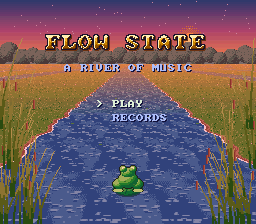
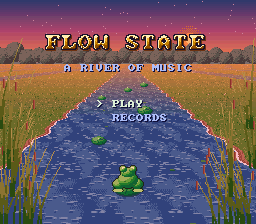
Flow State step 8: polish and release (a lively title for the Library picture, the README row, sources of the scores, the rhythm-game playbook section, an onset tool, the final audit)
Claude-Session: https://claude.ai/code/session_01Nc4JskrxPXMSXcsQP1Fakb

Changed region(s): [[0.0, 0.1875, 1.0, 1.0], [0.0312, 0.8125, 0.0938, 0.9375], [0.0312, 0.9375, 0.0938, 1.0]]

diff --git a/carts/src/flow-state/code.js b/carts/src/flow-state/code.js
@@ -410,6 +410,12 @@ function drawFrogAndPads() {
     sprite(r, hopTo - S / 2, FROG_Y + 6 - S * 0.62, { pal: [5, 6, 4][lastG] });
   }
   sprite(ART.sprites.pad32, home - 16, FROG_Y + 2 - 20);
+  if (state === 'title') {                                                                     // on the title a few pads drift down the river towards the frog
+    for (let i = 0; i < 5; i++) {
+      const z = lerp(720, 100, ((i * 72 + clock) % 360) / 360), k = FOCAL / z, S = k >= 0.75 ? 32 : k >= 0.38 ? 16 : 8;
+      sprite(ART.sprites['pad' + S], 128 + [-2, 1, -1, 2, 0][i] * LANE * k - S / 2, HORIZON - 1 + HEIGHT * k - S * 0.62);
+    }
+  }
   if (state !== 'play' && state !== 'calib') return;
   for (const n of notes) {
     const z = ZH + V * (n.f - st());

diff --git a/docs/carts/flow-state.md b/docs/carts/flow-state.md
@@ -1,7 +1,7 @@
 # Flow State: Cart Specification
 
-**Version:** 0.2 (spec agreed in outline)
-**Status:** Spec written; scaffolded, the game is still the starter's placeholder
+**Version:** 1.0 (built: all eight steps of section 15)
+**Status:** Released in the Library (`carts/flow-state.nova.png`); under review in [PR #60](https://github.com/orlando008/fanstasy-console/pull/60). Open: the Badinerie's licence and a person's check of feel and of the notes (section 16)
 **Cart source:** `carts/src/flow-state/` → `carts/flow-state.nova`
 
 ---
@@ -204,11 +204,14 @@ A perfect player gets an S on every chart and is in flow state 75 to 97 % of the
 
 **Step 7, not done:** the bot models a person with one number; real players have a bias (a steady early or late tap, which the calibration is for) and bad stretches, so the real ladder will need a person to confirm it (the first thing to try if a grade feels too easy is the C threshold, then the targets of the flow, the `JUDGE` targets and `MISS_K`, and `gradeOf`, in `code.js`).
 
+**Step 8, built:** the title has pads drifting down the river towards the frog, so the Library's picture (the title at 3.5 seconds, `carts/labels/flow-state.png`) shows the game; `meta.json` has the Library's description; the README has the game's row; `node tools/release.js flow-state` made `carts/flow-state.nova.png` (57 % of the PNG's 147 KB); `carts/src/flow-state/scores/SOURCES.md` says where each score came from and what is open (the Badinerie); the playbook has a section on rhythm games (section 10) and `tools/devkit/music/onset.mjs` checks how soon a song's first note sounds. The audit: all eight test files pass (`node tools/test.js flow-state`, 247 checks), `verify.js` passes for the cart and for every other cart (the loudness tool's one change, ignoring a song's silent tail, was checked on all of them), the bot plays every piece at every difficulty through the title, the map and the calibration to the results, a soak of random presses runs clean, 2 ms a frame on average, 38 KB of the 64 KB of code, 926 of the 1,023 tiles, 49 of the 64 effects, 53 of the 64 patterns.
+
 Each step: build it, run `node tools/check.js flow-state` and `node tools/test.js flow-state`, write its **Built** and **Results** notes under its number here, commit and push.
 
 ## 16. Open questions
 
-- **The speakers' delay.** The calibration finds one number, but the audio worklet's delay can differ between a phone and a laptop; the calibration screen must be quick and obvious, and offered on the first play.
-- **The notes.** The pieces are written from the scores by hand: each needs a check by ear by a person (the sync is by arithmetic, the notes are not); the spec lists each piece's source (IMSLP, public domain editions) as it is written.
-- **Held notes.** The Air and the Moonlight Sonata have long notes; a pad you hold (press and release on the note's end) would suit them. Left out of the first version, one tap a pad.
-- **A second button for chords.** Not needed with one button: the chart follows the melody only.
+- **The Badinerie's licence.** Its notes come from John Hamm's 1995 sequence (`carts/src/flow-state/scores/SOURCES.md`): the repository it was found in states no licence. Before a public release replace it with an engraving of clear licence (the commands are in `SOURCES.md`); the other pieces come from Mutopia (public domain or Creative Commons: attribution may be due for a Creative Commons file, which the file does not say).
+- **A person's check.** Everything here is checked by arithmetic, by tests and by a bot; nobody has heard the music or felt the timing in this document's making except through the user's reviews. The notes were taken from scores, not played by ear; the calibration measures a tick, not music; the bot models one number of timing error. Things to try first if a player complains: the C threshold and the flow's targets (`gradeOf`, `JUDGE`, `MISS_K` in `code.js`), the plinks' loudness on a fast piece (section 11), the glow bar's strength in full daylight, the density of a chart (`pieces.py`).
+- **The speakers' delay.** The calibration finds one number, but the audio worklet's delay can differ between a phone and a laptop; it is offered on the first play and again on the map (SELECT).
+- **Held notes.** The Air and the Moonlight Sonata have long notes; a pad you hold (press and release on the note's end) would suit them. Left out: one tap a pad.
+- **Touch controls.** The game needs only the D-pad, A, B, START and SELECT, which the console's touch controls have; it has been run only with a keyboard and the bot.

diff --git a/docs/dev/playbook.md b/docs/dev/playbook.md
@@ -460,3 +460,35 @@ What the checks found in the games, so the same is not done again:
 - **Measuring what is not there**: `loud.mjs` read a song's tempo only from channel 1, so Summit Rush (tempo on channel
   5) was measured at the wrong speed and its title lead was over the limit unseen; `sfx.mjs` read the left side only,
   so effects panned right looked quieter than they were. Both now measure what the player hears.
+
+## 10. A rhythm game on this console (Flow State)
+
+What building `flow-state` taught (its spec is `docs/carts/flow-state.md`; every point has a test in `tests/carts/flow-state/`):
+
+- **The music is the clock.** A song's speed is the ticks (60 to a second) of a row, so a note on row `r` sounds `r x speed` frames after `music(song, pos)`.
+  Write the notes once (`pieces.py`) and make the song and the chart from them (`audio.py` writes `rom/charts.bin` as well as `audio.json`): they cannot
+  disagree, and a test reads both back and checks every pad against the song (`04-music.mjs`). No audio analysis is needed.
+- **A voice must start when its row says.** A slow attack makes a note sound late against its pad, and a player taps what they hear: the Air's strings were 94 ms
+  to full level and every tap landed three frames behind. `tools/devkit/music/onset.mjs` prints when each song's first note reaches a quarter of its level;
+  set a rhythm game's lead voices to attack 0 and keep it under about 15 ms.
+- **A chart follows one thing the player can hear.** Pads on both the bass and the melody ornaments of the Air could not be tapped to; pads on the bass alone, played as
+  a clear tick, could. Say on the menu what each chart follows. Make a slow melody playable with a second voice (`extra_src`, `extra_mod`), and a hard chart with
+  every note, but not faster than a person can tap (no two pads closer than 9 frames).
+- **Scores from public domain files.** `carts/src/flow-state/import_score.py` turns one voice of a MIDI file (Mutopia has engravings; the `marmooo/classical-midi-db`
+  repository collects them) into note text; `scores/SOURCES.md` records where each came from and its licence. The first versions written from memory were wrong in
+  the Air, the Moonlight and the Minuet's second half: take the notes from a score.
+- **The calibration is a number of frames.** Tap to a tick on a steady beat, take the **median** of how late the taps are (a stray tap does not spoil it), limit it
+  to -15 to 15, and subtract it from the song time (`st = tm - lag`) for the pads and the judgement alike. Offer it the first time, and save it.
+- **A meter that counts saturates.** A flow or health meter that goes up a fixed amount a hit and down a fixed amount a miss goes to the top for every player better
+  than a coin toss. Move it a part of the way to a target with each judgement (`code.js`: `JUDGE`, `MISS_K`) and it measures how well the player has been playing.
+  Simulate the rule offline for a few accuracies before changing it (the first step of `step 7` in the spec).
+- **Balance with a bot that is human.** `bot.mjs` taps with a timing error (`sd` frames) that grows when the pads come fast; run it at 0, 3, 6 and 10 over every
+  piece and difficulty (`sweep.mjs ... --set sd=0,3,6,10`) and write down what grade and share of flow state each should get (`08-balance.mjs`).
+- **The picture.** A floor in perspective is the `mode7` demo's affine matrix per line; a thing on the floor (a pad) uses the same formula (`y = horizon + height x
+  focal / z`), so it sits on the water; the five times of day are tints of one palette set (`color(i)` reads an entry), not five pictures. Every procedural detail
+  of a big repeating picture must repeat with the tile (a 1,024 px river costs 518 tiles when everything repeats every 64 px, and over 1,000 when it does not).
+  The overlay is above the sprites, so a big letter or a character beside a panel stands on open ground, not behind the panel; sprites in palettes 4 to 7 with
+  `blend({ layers: ['spr'], op: 'add' })` are the glows.
+- **No sound for a failure that the screen already shows** (the miss's splash cut into the music's flow), and nothing that needs the player to see the screen to hear a
+  beat. Effects are sampled and soft (0.006 to 0.022 RMS against a song's 0.04 to 0.07); a hit's plink has the pitch class of its note (one effect for each).
+

diff --git a/README.md b/README.md
@@ -67,6 +67,7 @@ Cursor) or a chat, which then makes a game with you from this repository. You ca
 | `street` | The art kit's drawn figures: a 96 px brawler drawn in designed shapes on a skeleton, his frames streamed into tile memory as they play, his idle, walk, punch and kick animated from poses, on a night street after Streets of Rage 2 (LEFT/RIGHT, A, B) |
 | `brawl` | Streets of Woe: a Streets of Rage style beat 'em up for one or two players, with drawn fighters streamed from the cart's ROM (a hero from the user's model sheet, five kinds of thug, the heavy Brute, three bosses): three stages (the street, the docks, the rooftop), a boss at the end of each, a thug for each stage, the knife-wielding Slasher, the bottle-throwing Chucker and the whip-cracking Lasher, three-hit combos with an uppercut, grabs, throws, a special, weapons, items and breakable crates (D-pad, A attack, B jump, X special, SELECT shows the hit boxes) |
 | `franchise` | The Franchise: Basketball Edition: a front-office simulator for one general manager and 30 fictional teams, with a 58-game season and playoffs, live game nights (a court, a ticker, a box score), lineup, minutes and training, injuries, the salary cap and tax, ticket prices and the owner's patience, re-signing, free agency, a scouted draft and trades with the computer. The whole league is a function of a seed, so it fits the 1 KB save (D-pad, A, B, X, Y, L, R; START pauses) |
+| `flow-state` | Flow State: a rhythm game to Bach and Beethoven with one button. A frog hops onto the lily pads that float down a river in perspective, one for each note of the melody (the Minuet in G, the Air on the G String, Für Elise, the Moonlight Sonata, the Badinerie); a flow meter instead of a game over, a multiplier that makes the river brighter and brings out fireflies, three difficulties, a map with unlocks and a calibration for the speakers' delay. The chart and the song are made from the same notes, so a pad is on its note to the frame (D-pad, A, B, START, SELECT) |
 | `showcase` | The art kit's SNES tools at work (docs/dev/snes-picture.md): two sculpted boxers in a ring, framed as Super Punch-Out!! (our hero from behind), with a receded crowd and HUD lettering, and a parallax valley under a sky gradient (LEFT and RIGHT) |
 | `effects` | Colour blending, brightness, windows and mosaic: a see-through panel, shadows, light, water, fades, spotlights, an iris wipe, coloured glass and the mosaic, one page each (LEFT and RIGHT) |
 | `chiptune` | A six-channel song and five sound effects on the old sound chip (a version-1 cart, kept as it was), all editable in the Music and SFX tabs |

diff --git a/carts/src/flow-state/scores/SOURCES.md b/carts/src/flow-state/scores/SOURCES.md
@@ -1,0 +1,20 @@
+# Where the notes of Flow State come from
+
+The notes are the public domain compositions' own (Bach died in 1750, Beethoven in 1827). What matters for a game that ships them is the licence of the file
+they were read from, so each source is recorded here. `import_score.py` turns one voice of a MIDI file into the text kept in this folder: only note pitches,
+starts and lengths are kept (rounded to a grid, ornaments shorter than a grid step dropped); the MIDI files themselves are not in the repository.
+
+| Piece | Text files | Source | Licence of the source |
+|---|---|---|---|
+| Minuet in G (BWV Anh. 114, by Christian Petzold) | `minuet.*` | Mutopia Project, Notebook for Anna Magdalena Bach (`BachJS/BWVAnh114`), found in `marmooo/classical-midi-db` | Mutopia: public domain or Creative Commons (the file does not say which) |
+| Air on the G String (Orchestral Suite 3, BWV 1068) | `air.*` | Mutopia Project, the flute and guitar arrangement (`BachJS/BWV1068`) | as above |
+| Für Elise (WoO 59) | `elise.*` | Mutopia Project (`BeethovenLv/WoO59`) | as above |
+| Moonlight Sonata, first movement (Op. 27 no. 2) | `moon.*` | Mutopia Project (`BeethovenLv/O27/moonlight`, `moonlight1-a4.mid`) | as above |
+| Prelude in C (BWV 846) | `prelude.*` | Mutopia Project (`BachJS/BWV846/wtk1-prelude1`) | as above |
+| Badinerie (Orchestral Suite 2, BWV 1067) | `badinerie.*` | John Hamm's 1995 General MIDI sequence of the Orchestral Suites, as shipped in the `jikol1906/bach-visualizer` repository (`midi/badinerie.mid`) | **not stated**: the repository has no licence file |
+
+**Open before a public release:** the Badinerie. A sequence can carry its own copyright (its timing, its ornaments, its choice of parts); the notes kept here are
+only pitches and rhythms rounded to a grid, from the flute part, but the licence is not clear. To replace it: find an engraving or a MIDI with a clear licence
+(Mutopia has none of this suite; IMSLP and MuseScore list public domain typesettings), and run `import_score.py` on it as in `docs/carts/flow-state.md`
+(the commands are in the header of the script), then `python3 carts/src/flow-state/audio.py carts/src/flow-state/audio.json` and the tests (`04-music.mjs`
+checks that every chart agrees with its song).

diff --git a/WORKFLOW-WISHLIST.md b/WORKFLOW-WISHLIST.md
@@ -247,3 +247,16 @@ cart runs there is nothing on screen but the game.
   connection once visited. Done in
   [orlando008/fanstasy-console#47](https://github.com/orlando008/fanstasy-console/pull/47): `sw.js`,
   `manifest.webmanifest` and `tools/icons.js` (SPEC 11.3), checked by `tests/console/offline.mjs`.
+
+---
+
+## Added while building Flow State (October 2026)
+
+- [x] **An onset check for rhythm games** (`tools/devkit/music/onset.mjs`): when each song's first lead note reaches a quarter of its level, so a slowly swelling voice
+  is caught before a player taps late against it. Done in [orlando008/fanstasy-console#60](https://github.com/orlando008/fanstasy-console/pull/60); the playbook's
+  section 10 has the rule.
+- [ ] **A general score importer** (`tools/devkit/music/midi_notes.py`): `carts/src/flow-state/import_score.py` turns one voice of a MIDI file into note text
+  (grid, top or bottom voice, legato, a pitch limit, separating a repeated figure). Move it to the tools, give it a test, and let a song cart (not only a rhythm game) start
+  from a public domain score.
+- [ ] **A licence check for what a cart ships**: a `SOURCES.md` next to imported scores, art or samples is written by hand (`carts/src/flow-state/scores/SOURCES.md`);
+  `check.js` could warn when a cart has imported data and no such file.
